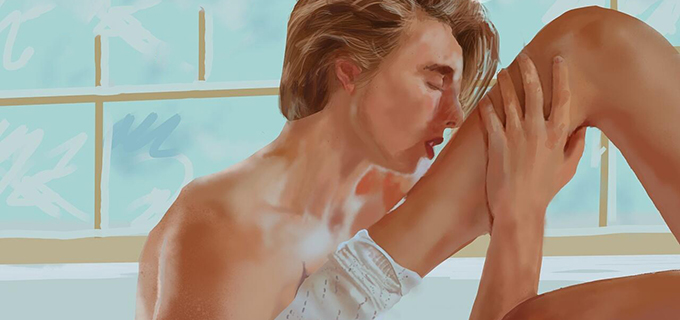
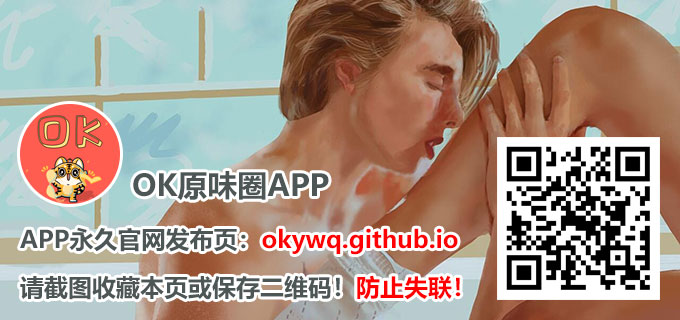
1

diff --git a/index.html b/index.html
@@ -61,34 +61,6 @@
 				background-size: cover;
 				width:100%;
 			}
-			.ato {
-				line-height:30px;
-				font-size:12px;
-				font-weight: bold;
-				position: absolute;
-				top: 5%;
-				left: 5%;
-				padding-top:65px;
-				//color:red;
-			}
-			.att {
-				line-height:30px;
-				font-size:18px;
-				font-weight:bold;
-				position: absolute;
-				top: 5%;
-				left: 5%;
-				padding-top:33px;
-				padding-left:60px;
-			}
-			.ats {
-				width: 60px;
-				height: 60px;
-				position: absolute;
-				top: 5%;
-				left: 5%;
-				border-radius: 50%;
-			}
 			.box{
 				margin-top:10px;
 				border-radius: 15px;
@@ -153,54 +125,52 @@
 			<div class="content"><!-- 内容开始 -->
 				<section class="home-me-section active-section"><!-- 首页开始 -->
 					<div class="main"><!-- 站点内容开始 -->
+					
 						<div onclick="setshare()">
 							<img src="bgo.jpg" class="bgt" />
-							<img src="avatar.png" class="ats" />
-							<div class="att">OK原味圈APP</div>
-							<div class="ato">
-								<a>APP永久官网发布页：okywq.github.io</a>
-								<br>
-								<a>请截图收藏本页或保存下方二维码！防止失联！</a>
-							</div>
 						</div>
+						
 						<div class="box">
 							<a href="https://3g.lenovomm.com/w3g/yydownload/com.okyuanwei.app/17071" target="_blank" class="A">
 							<div id="boxs">
 								<div class="track-list"><!-- 时间轴开始 -->
 									<ul>
 										<div class="web">安卓免费下载</div>
-										<div class="tips">【安卓版本】永久稳定/建议优先使用</div>
+										<div class="tips">【安卓版本】永久稳定/建议优先使用。</div>
 										<div class="tips">【提示】安卓下载后请在下载管理、文件管理或者通知栏里面找APK安装包！安装包解析失败请重新下载！</div>
 									</ul>
 								</div><!-- 时间轴结束 -->
 							</div>
 							</a>
 						</div>
+						
 						<div class="box">
 							<a href="https://app.xfenfa.cn/ZoO3" target="_blank" class="A">
 							<div id="boxs">
 								<div class="track-list"><!-- 时间轴开始 -->
 									<ul>
 										<div class="web">苹果免费下载（企业签）</div>
-										<div class="tips">【企业签】优点：免费下载/缺点：易掉签，需重装/推荐苹果新用户安装</div>
-										<div class="tips">【提示】苹果下载后需要信任应用，请前往“设置”、“通用”、“VPN与设备管理”、“信任应用”</div>
+										<div class="tips">【企业签】优点：免费下载/缺点：易掉签，掉签后需重装（务必保存本页防止失联）/推荐苹果新用户安装。</div>
+										<div class="tips">【提示】苹果下载后需要信任应用，请前往“设置”、“通用”、“VPN与设备管理”、“信任应用”。</div>
 									</ul>
 								</div><!-- 时间轴结束 -->
 							</div>
 							</a>
 						</div>
+						
 						<div class="box">
 							<a href="http://240pay.com/fpjuk5" target="_blank" class="A">
 							<div id="boxs">
 								<div class="track-list"><!-- 时间轴开始 -->
 									<ul>
 										<div class="web">苹果付费安装（超级签）</div>
-										<div class="tips">【超级签】优点：稳定不易掉签，专属客服对接安装/推荐苹果老用户安装</div>
+										<div class="tips">【超级签】优点：稳定不易掉签，专属客服对接安装/推荐苹果老用户安装。</div>
 									</ul>
 								</div><!-- 时间轴结束 -->
 							</div>
 							</a>
 						</div>
+						
 						<div class="box">
 							<div id="boxs">
 								<div class="track-list"><!-- 时间轴开始 -->
@@ -210,6 +180,7 @@
 								</div><!-- 时间轴结束 -->
 							</div>
 						</div>
+						
 					</div><!-- 站点内容结束 -->
 				</section><!-- 首页结束 -->
 			</div><!-- 内容结束 -->
